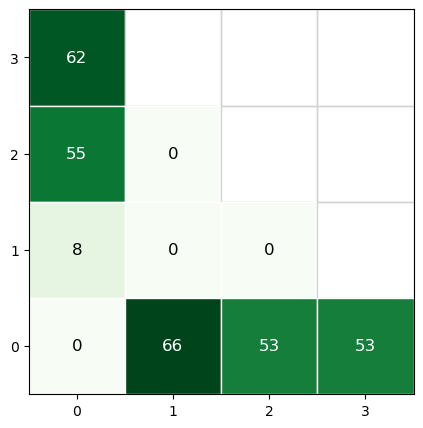
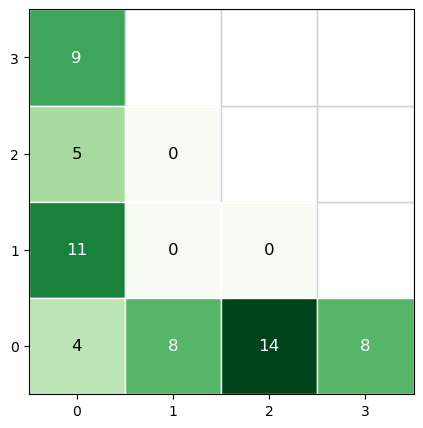
add multinomial distribution for chips

diff --git a/schelling_graph/graph.py b/schelling_graph/graph.py
@@ -1,5 +1,5 @@
 
-from typing import Callable
+from typing import Callable, MutableSequence, Type
 import numpy as np
 import random
 from matplotlib import pyplot as plt
@@ -10,11 +10,11 @@ from .structures import Colors
 import termcolor as tc
 
 
-
 class Schelling_Graph:
     def __init__(self, nodes: list[Schelling_Node]):
         self.nodes = nodes
-        self.matrix: np.ndarray[Schelling_Node] = create_vertex_matrix(nodes) # type: ignore
+        self.matrix: np.ndarray[Schelling_Node] = create_vertex_matrix(  # type: ignore
+            nodes)  # type: ignore
         self.nbc = get_nodes_by_color(nodes)
 
     @property
@@ -52,7 +52,7 @@ class Schelling_Graph:
 
     def __getitem__(self, idx) -> Schelling_Node:
         x, y = idx
-        return self.matrix[x][y] #type: ignore
+        return self.matrix[x][y]  # type: ignore
 
     def plot_all(self, show=True):
         fig, ax = plt.subplots(1, 2, figsize=(10, 5))
@@ -63,7 +63,7 @@ class Schelling_Graph:
         if show:
             plt.show()
         return fig, ax
-    
+
     def plot_chips(self, show=True, ax=None):
         fig = None
         if ax is None:
@@ -103,25 +103,55 @@ class Schelling_Graph:
 
         return logs + [f"Condition satisfied, stopping simulation after {round_count} rounds."]
 
-    def init_chips_uniform(self, a=0, b=5):
-        """Initialize chips uniformly between a and b (inclusive)"""
+    def init_chips_uniform(self, min=0, max=5):
+        """Initialize chips uniformly between a and b (inclusive)
+        returns the list of chips assigned."""
+        chips = []
         for n in self.nodes:
-            n.chips = random.randint(a, b)
+            n.chips = random.randint(min, max)
+            chips.append(n.chips)
+        return chips
 
-    def set_chips(self, samples: list[int]|np.ndarray):
+    def init_chips_multinomial(self, pvals: list[float] | np.ndarray):
+        """Initialize chips using a multinomial distribution with given probabilities.
+        The length of pvals must be equal to the number of nodes.
+        The sum of pvals must be 1.
+
+        returns the list of chips assigned.
+        """
+
+        assert len(pvals) == len(
+            self.nodes), "The length of pvals must be equal to the number of nodes"
+        assert abs(sum(pvals) - 1.0) < 1e-8, "The sum of pvals must be 1."
+
+        total_number_of_chips = 100  # You can adjust this value as needed
+
+        chips = np.random.multinomial(n=total_number_of_chips, pvals=pvals)
+
+        for i, n in enumerate(self.nodes):
+            n.chips = chips[i]
+
+        return chips
+
+    def set_chips(self, chips: MutableSequence[int], randomize: bool = False):
         """Initialize chips assigning values from the given list.
         The values are assigned uniformly at random from the list.  
         The length of samples must be equal to the number of nodes.
+
+        If randomize is False, the values are assigned in the order of the nodes list of this graph.
+
+        returns the list of chips assigned.
         """
-        assert len(samples) == len(
+        assert len(chips) == len(
             self.nodes), "The length of samples must be equal to the number of nodes"
 
-        idxs = list(range(len(samples)))
-        for n in self.nodes:
-            # pop an item from samples at random
-            i = random.choice(idxs)
-            idxs.remove(i)
-            n.chips = samples[i]
+        if randomize:
+            random.shuffle(chips)
+
+        for i, n in enumerate(self.nodes):
+            n.chips = chips[i]
+
+        return chips
 
     def is_segregated(self) -> bool:
         """Check if the graph is segregated.
@@ -131,11 +161,9 @@ class Schelling_Graph:
             if n.x != 0 and n.y != 0:
                 return False
         return True
-    
 
     def __repr__(self) -> str:
         return f"Schelling_Graph with {len(self.nodes)} nodes."
-    
 
     def copy(self):
         """Create a deep copy of the graph."""

diff --git a/graph_definition.py b/graph_definition.py
@@ -1,12 +1,12 @@
 
-#%% IMPORTS
+# %% IMPORTS
 import schelling_graph as sg
 import numpy as np
 C = sg.Colors
 
-#%% VERTICES =====================================================
+# %% VERTICES =====================================================
 
-vertices = [
+nodes = [
     sg.Schelling_Node(x=0, y=3, chips=0, color=C.BLACK),
     sg.Schelling_Node(x=0, y=2, chips=0, color=C.RED),
     sg.Schelling_Node(x=0, y=1, chips=0, color=C.RED),
@@ -19,10 +19,10 @@ vertices = [
     sg.Schelling_Node(x=3, y=0, chips=0, color=C.BLACK),
 ]
 
-g = sg.Schelling_Graph(vertices)
+g = sg.Schelling_Graph(nodes)
 
 
-#%% GIVE CHIPS =====================================================
+# %% GIVE CHIPS =====================================================
 # give chips
 # for v in vertices:
 #     v.chips = random.randint(1, 2)
@@ -30,43 +30,40 @@ g = sg.Schelling_Graph(vertices)
 # g[1,2].chips = 1
 # g[0,0].chips = 1
 
-#%% ARROWS =====================================================
-g.add_arrow(g[0,0], g[0,1], color=C.BLUE)
-g.add_arrow(g[0,0], g[0,1], color=C.GREEN)
-g.add_arrow(g[0,0], g[1,0], color=C.BLUE)
-g.add_arrow(g[0,0], g[1,0], color=C.PURPLE)
+# %% ARROWS =====================================================
+g.add_arrow(g[0, 0], g[0, 1], color=C.BLUE)
+g.add_arrow(g[0, 0], g[0, 1], color=C.GREEN)
+g.add_arrow(g[0, 0], g[1, 0], color=C.BLUE)
+g.add_arrow(g[0, 0], g[1, 0], color=C.PURPLE)
 
-g.add_arrow(g[0,1], g[0,2], color=C.BLUE)
-g.add_arrow(g[0,1], g[0,2], color=C.GREEN)
+g.add_arrow(g[0, 1], g[0, 2], color=C.BLUE)
+g.add_arrow(g[0, 1], g[0, 2], color=C.GREEN)
 
-g.add_arrow(g[0,2], g[0,3], color=C.BLUE)
-g.add_arrow(g[0,2], g[0,3], color=C.GREEN)
+g.add_arrow(g[0, 2], g[0, 3], color=C.BLUE)
+g.add_arrow(g[0, 2], g[0, 3], color=C.GREEN)
 
-g.add_arrow(g[1,2], g[0,2], color=C.BLUE)
-g.add_arrow(g[1,2], g[0,2], color=C.ORANGE)
-g.add_arrow(g[1,2], g[0,2], color=C.CYAN)
+g.add_arrow(g[1, 2], g[0, 2], color=C.BLUE)
+g.add_arrow(g[1, 2], g[0, 2], color=C.ORANGE)
+g.add_arrow(g[1, 2], g[0, 2], color=C.CYAN)
 
-g.add_arrow(g[1,1], g[1,2], color=C.BLUE)
-g.add_arrow(g[1,1], g[0,1], color=C.BLUE)
-g.add_arrow(g[1,1], g[2,1], color=C.BLUE)
-g.add_arrow(g[1,1], g[1,0], color=C.BLUE)
-g.add_arrow(g[1,1], g[1,1], color=C.BLUE)
-g.add_arrow(g[1,1], g[1,0], color=C.RED)
-g.add_arrow(g[1,1], g[1,0], color=C.ORANGE)
-g.add_arrow(g[1,1], g[1,2], color=C.GREEN)
-g.add_arrow(g[1,1], g[0,1], color=C.CYAN)
-g.add_arrow(g[1,1], g[0,1], color=C.ORANGE)
-g.add_arrow(g[1,1], g[2,1], color=C.PURPLE)
+g.add_arrow(g[1, 1], g[1, 2], color=C.BLUE)
+g.add_arrow(g[1, 1], g[0, 1], color=C.BLUE)
+g.add_arrow(g[1, 1], g[2, 1], color=C.BLUE)
+g.add_arrow(g[1, 1], g[1, 0], color=C.BLUE)
+g.add_arrow(g[1, 1], g[1, 1], color=C.BLUE)
+g.add_arrow(g[1, 1], g[1, 0], color=C.RED)
+g.add_arrow(g[1, 1], g[1, 0], color=C.ORANGE)
+g.add_arrow(g[1, 1], g[1, 2], color=C.GREEN)
+g.add_arrow(g[1, 1], g[0, 1], color=C.CYAN)
+g.add_arrow(g[1, 1], g[0, 1], color=C.ORANGE)
+g.add_arrow(g[1, 1], g[2, 1], color=C.PURPLE)
 
-g.add_arrow(g[2,1], g[2,0], color=C.BLUE)
-g.add_arrow(g[2,1], g[2,0], color=C.RED)
-g.add_arrow(g[2,1], g[2,0], color=C.ORANGE)
+g.add_arrow(g[2, 1], g[2, 0], color=C.BLUE)
+g.add_arrow(g[2, 1], g[2, 0], color=C.RED)
+g.add_arrow(g[2, 1], g[2, 0], color=C.ORANGE)
 
-g.add_arrow(g[1,0], g[2,0], color=C.BLUE)
-g.add_arrow(g[1,0], g[2,0], color=C.PURPLE)
+g.add_arrow(g[1, 0], g[2, 0], color=C.BLUE)
+g.add_arrow(g[1, 0], g[2, 0], color=C.PURPLE)
 
-g.add_arrow(g[2,0], g[3,0], color=C.BLUE)
-g.add_arrow(g[2,0], g[3,0], color=C.PURPLE)
-
-
-
+g.add_arrow(g[2, 0], g[3, 0], color=C.BLUE)
+g.add_arrow(g[2, 0], g[3, 0], color=C.PURPLE)

diff --git a/schelling_graph/structures.py b/schelling_graph/structures.py
@@ -2,6 +2,7 @@ import random
 import string
 from enum import Enum
 
+
 class Colors(Enum):
     ORANGE = "orange"
     BLUE = "blue"
@@ -24,29 +25,27 @@ class Node():
 
 
 class Schelling_Node(Node):
-    def __init__(self, x: int, y: int, chips: int = 0, id=None, color:Colors=Colors.BLACK):
+    def __init__(self, x: int, y: int, chips: int = 0, id=None, color: Colors = Colors.BLACK):
         super().__init__(id)
         self.chips: int = chips  # Number of chips on the node
         # List of arrows originating from this node
-        self.arrows: list[Shelling_Arrow] = []
+        self.arrows: list[Schelling_Arrow] = []
         self.x: int = x  # X position
         self.y: int = y  # Y position
-        self.color: Colors = color  # Color      
+        self.color: Colors = color  # Color
 
     def add_arrow(self, to: 'Schelling_Node', linked_nodes: list['Schelling_Node'], color: Colors):
-        arrow = Shelling_Arrow(to, linked_nodes, color)
+        arrow = Schelling_Arrow(to, linked_nodes, color)
         # Ensure all linked nodes have the same color as the arrow
         for v in linked_nodes:
             assert v.color == color, "All linked nodes must have the same color as the arrow."
         self.arrows.append(arrow)
 
 
-class Shelling_Arrow():
-    def __init__(self, to_node: Schelling_Node, linked_nodes: list[Schelling_Node], color:Colors=Colors.BLACK):
+class Schelling_Arrow():
+    def __init__(self, to_node: Schelling_Node, linked_nodes: list[Schelling_Node], color: Colors = Colors.BLACK):
         self.neighbor: Schelling_Node = to_node  # The neighboring node
         # The linked nodes connected by this arrow
         self.out_edge_nodes: list[Schelling_Node] = linked_nodes
         # Color of the arrow
         self.color: Colors = color
-
-

diff --git a/schelling_graph/tools.py b/schelling_graph/tools.py
@@ -2,6 +2,7 @@
 import numpy as np
 from schelling_graph.structures import Schelling_Node, Colors
 
+
 def get_nodes_by_color(vertices: list[Schelling_Node]) -> dict[Colors, list[Schelling_Node]]:
     vertices_by_color = {
         color: [v for v in vertices if v.color == color]
@@ -9,18 +10,21 @@ def get_nodes_by_color(vertices: list[Schelling_Node]) -> dict[Colors, list[Sche
     }
     return vertices_by_color
 
+
 def get_vertex_at_position(x: int, y: int, vertices: list[Schelling_Node]) -> Schelling_Node | None:
     for vertex in vertices:
         if vertex.x == x and vertex.y == y:
             return vertex
     return None
 
-def create_vertex_matrix(vertices: list[Schelling_Node]) -> np.ndarray[Schelling_Node]: #type: ignore
+
+def create_vertex_matrix(vertices: list[Schelling_Node]) -> np.ndarray[Schelling_Node]:
     dim = 4
     # Create a matrix to hold the vertices based on their (x, y) positions
     m = np.zeros((dim, dim), dtype=Schelling_Node)
     for vertex in vertices:
         # Ensure no two vertices occupy the same position
-        assert not m[vertex.x, vertex.y], f"Two vertices cannot occupy the same position { (vertex.x, vertex.y) }."
+        assert not m[vertex.x,
+                     vertex.y], f"Two vertices cannot occupy the same position {(vertex.x, vertex.y)}."
         m[vertex.x, vertex.y] = vertex
-    return m #type: ignore
+    return m  # type: ignore

diff --git a/schelling_graph/__init__.py b/schelling_graph/__init__.py
@@ -1,4 +1,4 @@
-from .structures import Schelling_Node, Shelling_Arrow, Colors
+from .structures import Schelling_Node, Schelling_Arrow, Colors
 from .graph import Schelling_Graph
 from .tools import get_nodes_by_color, create_vertex_matrix, get_vertex_at_position
 from .visualization import draw_graph, draw_matrix

diff --git a/README.md b/README.md
@@ -12,8 +12,6 @@ The file `graph_definition.py` contains the definition of the graph `g` used in 
 
 ```python
 from graph_definition import g
-from schelling_graph.visualization import draw_matrix_3D
-import numpy as np
 
 print(g)
 ```
@@ -36,8 +34,14 @@ g.plot(); # show the graph structure
 ```python
 # assign chips
 n = len(g.nodes)
-chips = np.random.randint(0, 60, size=n)
-g.set_chips(chips)
+
+g.init_chips_uniform(min=0, max=10)
+# or equivalently:
+# from random import randint
+# chips = [randint(0, 10) for _ in range(n)]
+# g.set_chips(chips, randomize=True)
+
+
 g_pre = g.copy() # save pre-move state
 
 g.plot_chips();
@@ -61,3 +65,8 @@ fig, ax = g.plot_chips()
 ![png](docs/images/README_4_0.png)
     
 
+
+
+```python
+
+```
